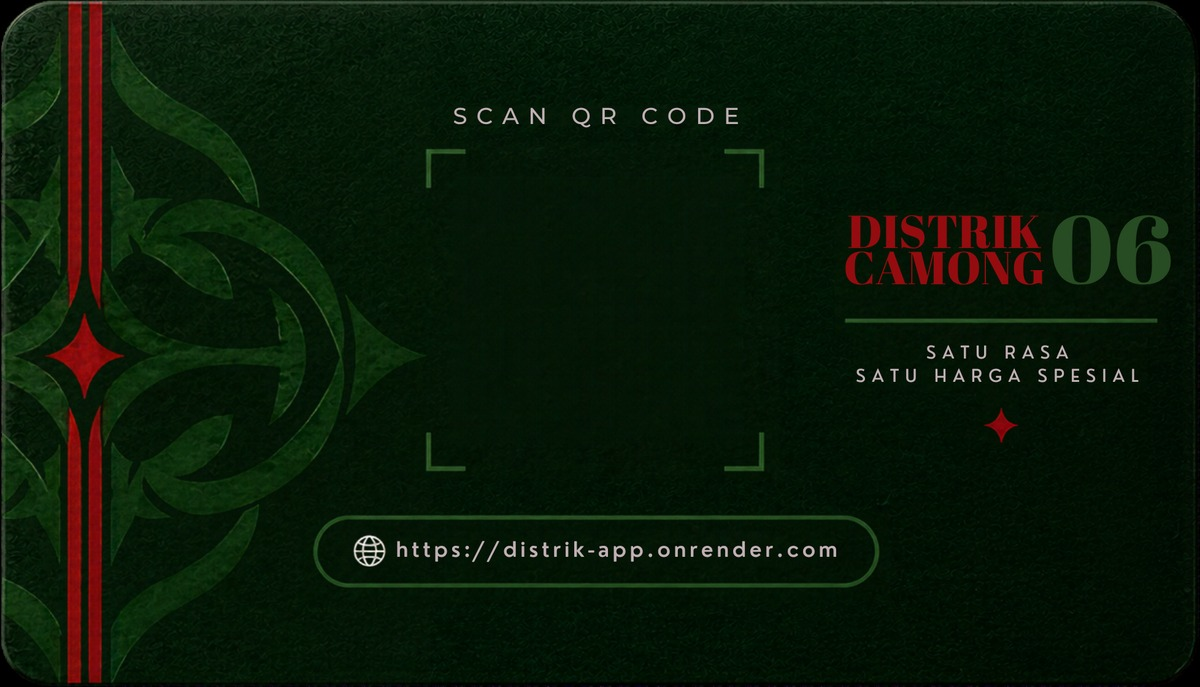
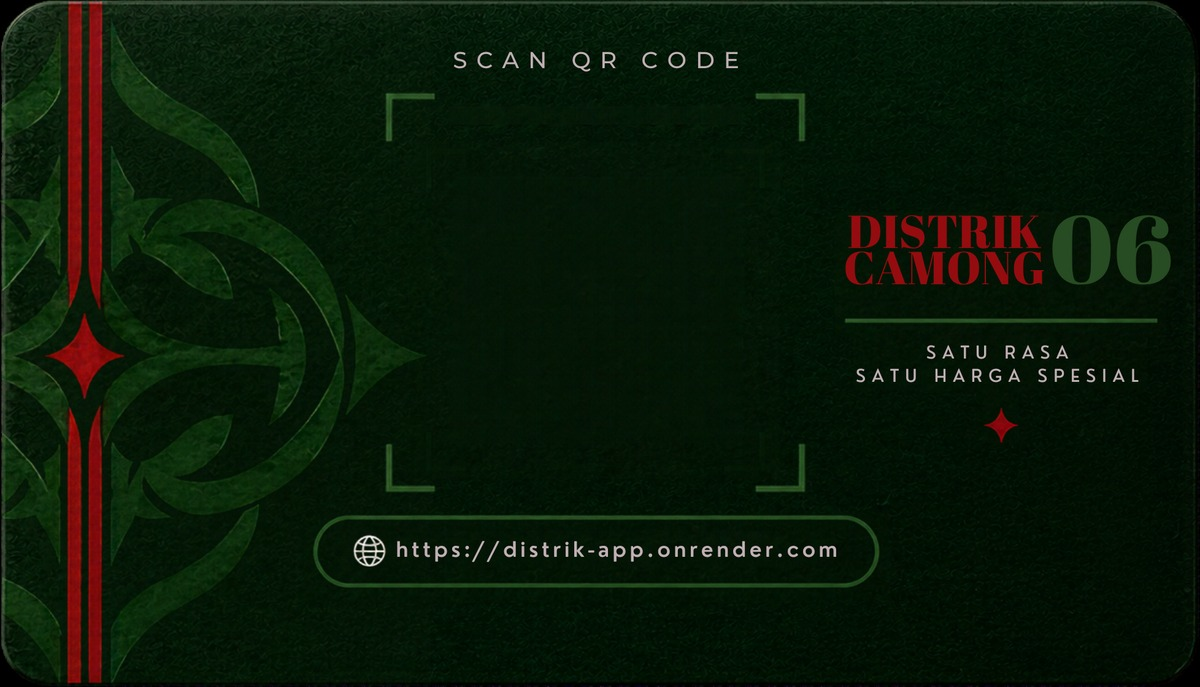
Enlarge QR code on member card back face
Updated bracket frame in the back card template is larger; resize and
re-center the QR overlay to match.

diff --git a/src/components/MemberCard.tsx b/src/components/MemberCard.tsx
@@ -27,9 +27,9 @@ export function MemberCardBack({ memberCode }: { memberCode: string }) {
   return (
     <svg viewBox="0 0 1200 687" className="w-full rounded-2xl shadow-lg" xmlns="http://www.w3.org/2000/svg">
       <image href={memberCardBack} x={0} y={0} width={1200} height={687} preserveAspectRatio="xMidYMid slice" />
-      <rect x={445} y={160} width={300} height={300} rx={10} fill="#efe7d6" />
-      <svg x={455} y={170} width={280} height={280}>
-        <QRCodeSVG value={memberCode} size={280} level="M" bgColor="#efe7d6" fgColor="#163f24" />
+      <rect x={405} y={102} width={380} height={380} rx={10} fill="#efe7d6" />
+      <svg x={415} y={112} width={360} height={360}>
+        <QRCodeSVG value={memberCode} size={360} level="M" bgColor="#efe7d6" fgColor="#163f24" />
       </svg>
     </svg>
   );
